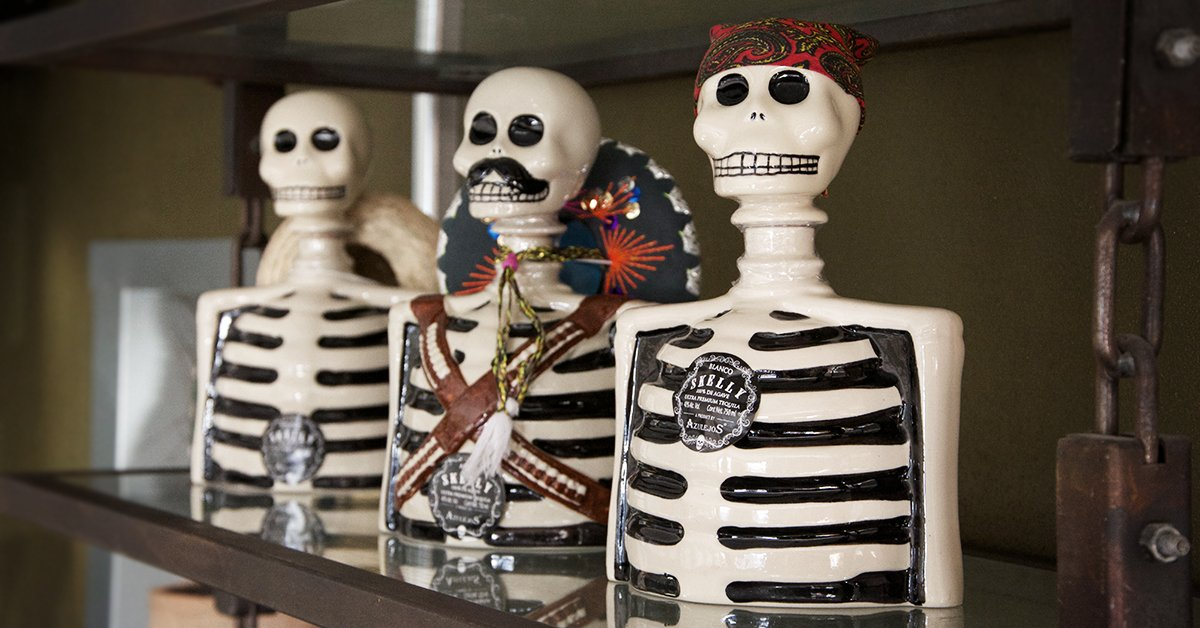
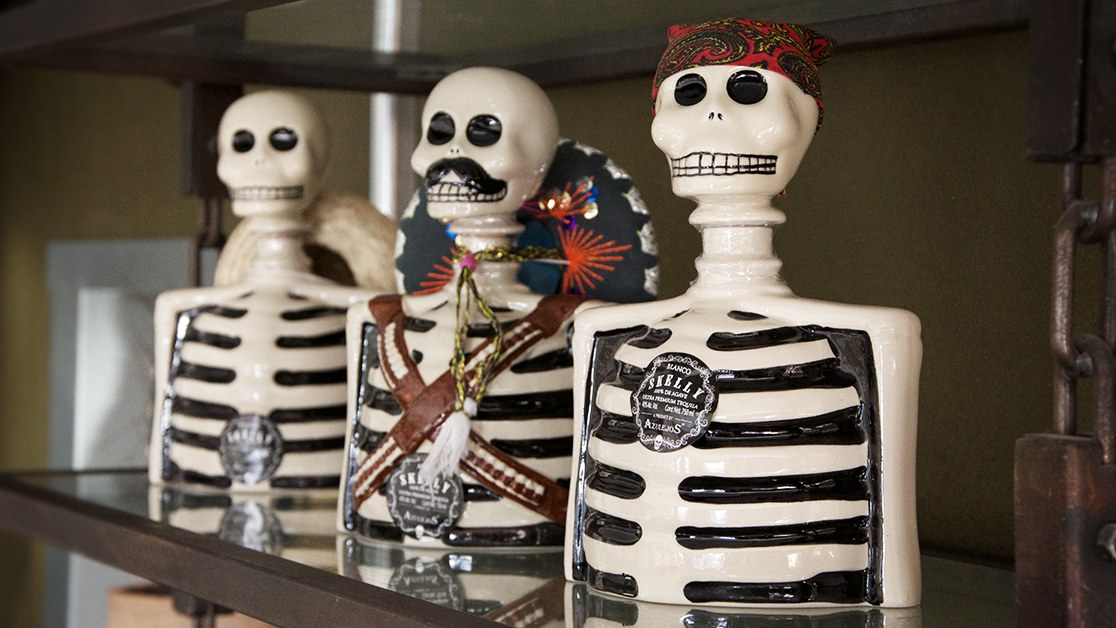
Startsidan som på main, 30 px Välkommen och Privatimport-justeringar
- Bild- och textsektionen har samma struktur som startsidan på main
  (50/50 med md:p-10 runt texten) – samma text- och bildbredd som main
- Sidmarginal px-4 som på main
- "Välkommen" 30 px igen
- Privatimport: rubriken centrerad ovanför texten, bilden beskuren till 16:9
  så att den är lika hög som de andra även på mobil

Claude-Session: https://claude.ai/code/session_01VjDJLX35kfDgxryE3ahR7S

diff --git a/components/ImageTextSection.js b/components/ImageTextSection.js
@@ -2,31 +2,36 @@ import Image from "next/image";
 
 /**
  * Bild och text bredvid varandra (på mobil: bilden överst).
- * Bilden visas i sitt eget format (bildfilerna är beskurna till 16:9) med samma
- * klasser som startsidans bild hade på main: "flex w-full h-auto object-cover".
- * imageRight lägger bilden till höger på dator. imageClassName ersätter bildens klasser.
+ * Samma struktur och klasser som startsidan hade på main: bild och text tar halva
+ * bredden var, och textspalten har luft runt sig (md:p-10). Bildfilerna är
+ * beskurna till 16:9 och visas med "flex w-full h-auto object-cover".
+ *
+ * imageRight lägger bilden till höger på dator.
+ * textClassName ersätter textspaltens luft/marginaler.
  */
 export default function ImageTextSection({
     image,
     alt,
     imageRight = false,
-    imageClassName = "flex w-full h-auto object-cover",
+    textClassName = "pt-5 md:p-10",
     priority = false,
     children,
 }) {
     return (
-        <section className="grid lg:grid-cols-2 gap-10 lg:gap-14 items-center">
-            <div className={imageRight ? "lg:order-last" : ""}>
+        <section
+            className={`flex flex-col items-center ${imageRight ? "lg:flex-row-reverse" : "lg:flex-row"}`}
+        >
+            <div className="w-full lg:w-1/2">
                 <Image
                     src={image}
                     alt={alt}
                     placeholder="blur"
-                    sizes="(min-width: 1280px) 600px, (min-width: 1024px) 50vw, 100vw"
-                    className={imageClassName}
+                    sizes="(min-width: 1280px) 640px, (min-width: 1024px) 50vw, 100vw"
+                    className="flex w-full h-auto object-cover"
                     priority={priority}
                 />
             </div>
-            <div>{children}</div>
+            <div className={`w-full lg:w-1/2 ${textClassName}`}>{children}</div>
         </section>
     );
 }

diff --git a/app/page.js b/app/page.js
@@ -54,7 +54,9 @@ export default function Home() {
                     alt="Skelly- och Talavera-flaskor från Los Azulejos med tequilaglas på ett träbord"
                     priority
                 >
-                    <PageHeading align="responsive">Välkommen</PageHeading>
+                    <PageHeading align="responsive" className="md:text-3xl !mb-4">
+                        Välkommen
+                    </PageHeading>
                     <p className="text-sm md:text-base leading-relaxed">
                         Los Azulejos är en av fem ledande tillverkare i Jalisco och som
                         enda återförsäljare i EU har vi nöjet att presentera denna

diff --git a/app/privatimport/page.js b/app/privatimport/page.js
@@ -32,11 +32,11 @@ export default function Privatimport() {
             <ImageTextSection
                 image={privatimportImage}
                 alt="Tre Skelly-flaskor från Los Azulejos på en hylla"
-                imageClassName="max-w-full h-80 w-auto mx-auto object-cover"
+                textClassName="pt-5 lg:pt-0 lg:pr-10"
                 imageRight
                 priority
             >
-                <PageHeading align="responsive">Privatimport</PageHeading>
+                <PageHeading>Privatimport</PageHeading>
 
                 <div>
                     <p>

diff --git a/lib/styles.js b/lib/styles.js
@@ -13,4 +13,4 @@ export const secondaryButtonClass =
     "inline-block border border-black px-8 py-3 hover:bg-blue-950 hover:text-white transition rounded-md";
 
 /** Ytterram för sidinnehåll: samma bredd, sidomarginal och toppavstånd på alla sidor. */
-export const pageClass = "max-w-screen-xl mx-auto px-4 md:px-6";
+export const pageClass = "max-w-screen-xl mx-auto px-4";
